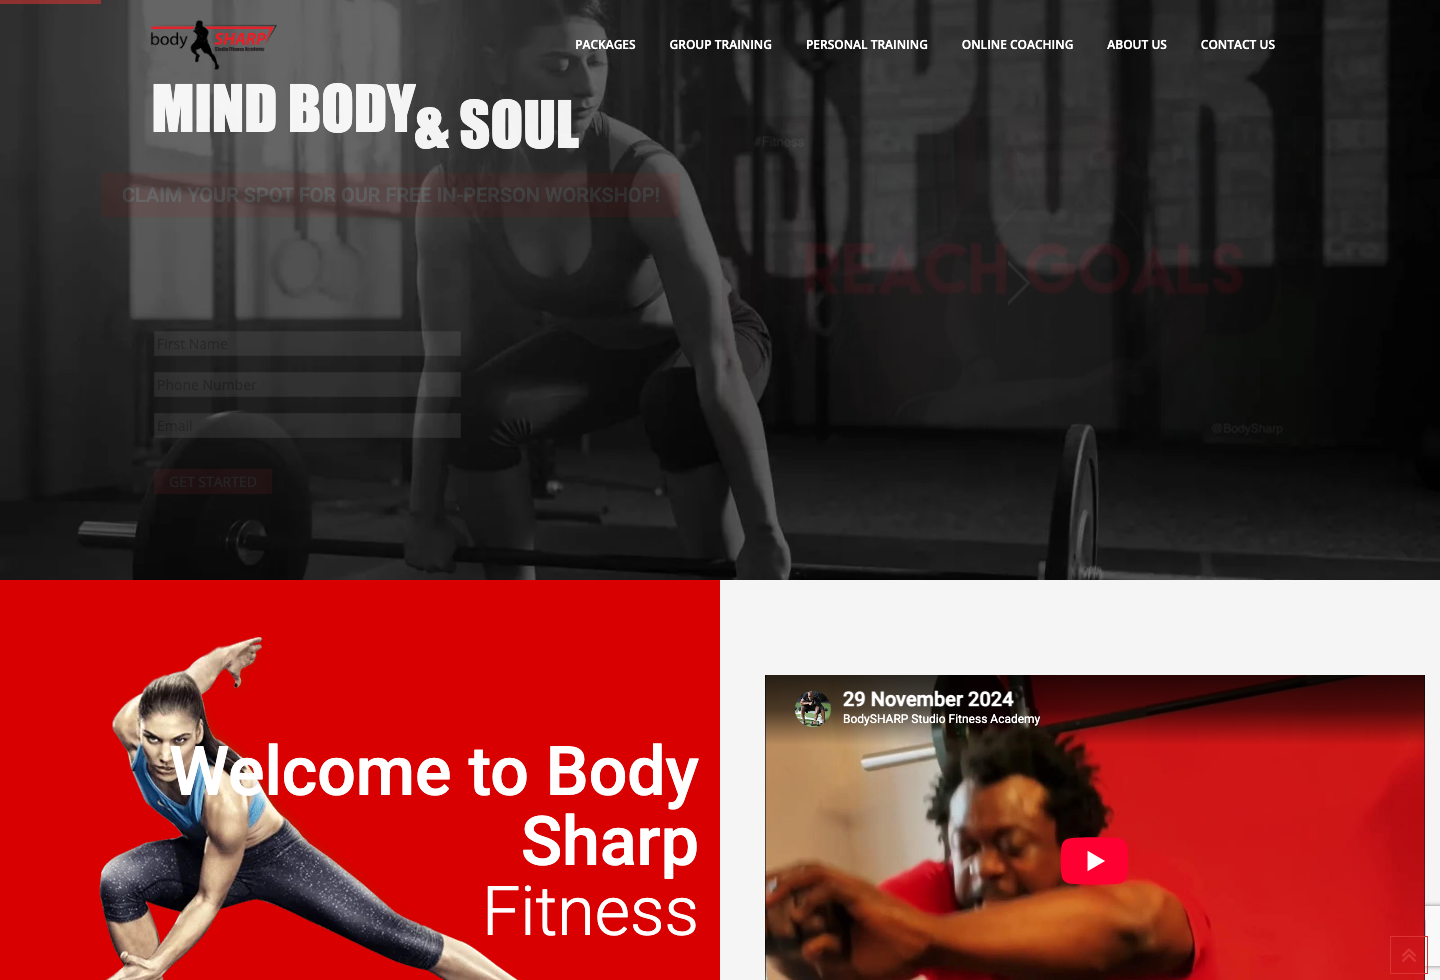
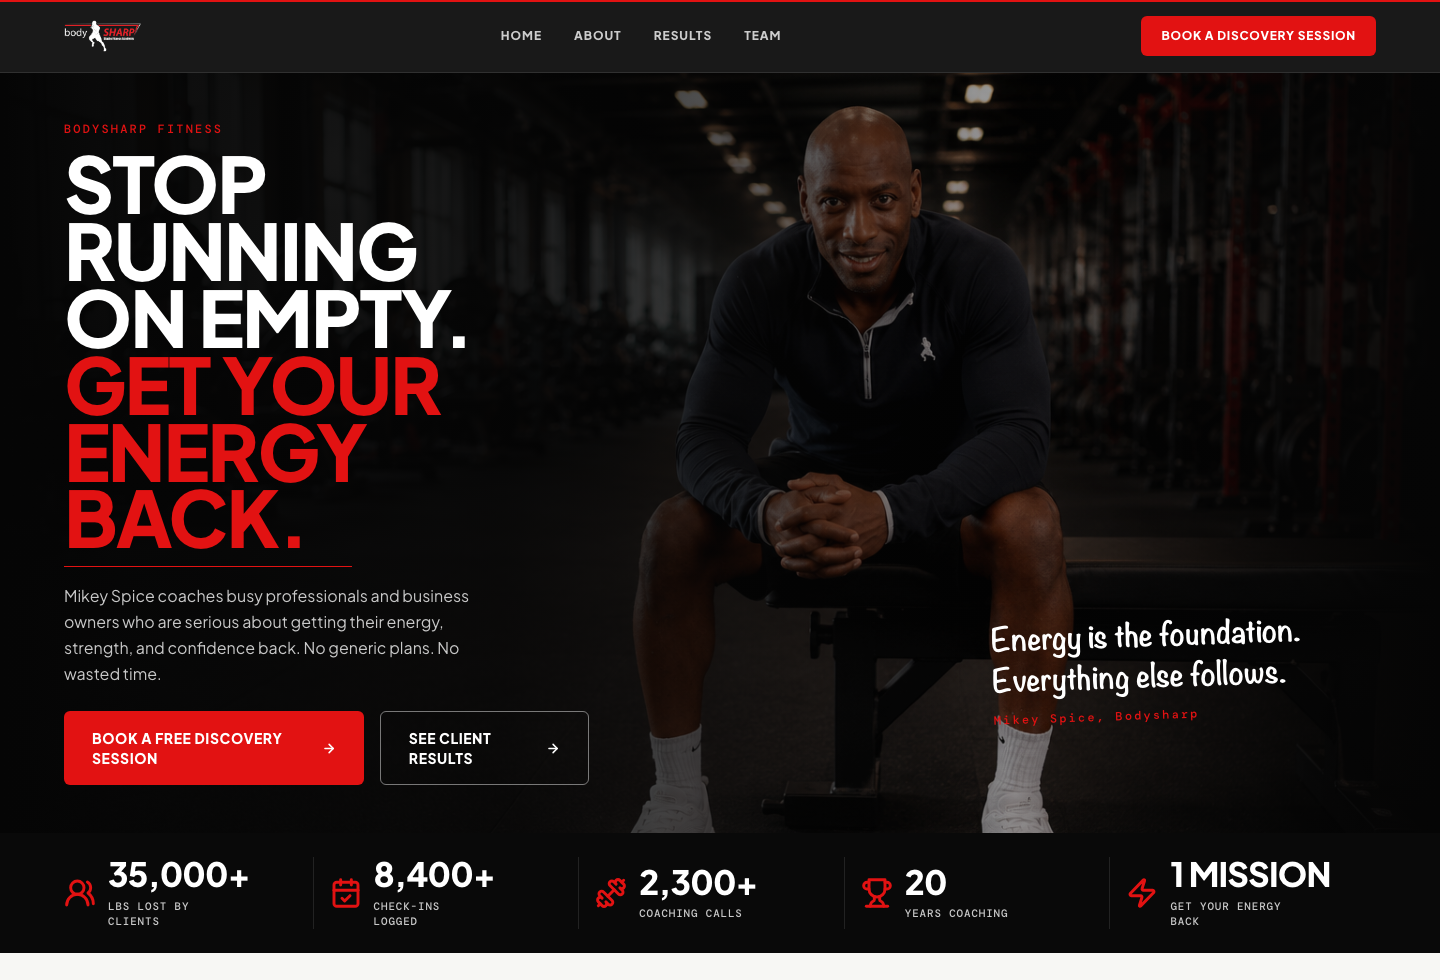
fix: restore examples card layout

diff --git a/app/sites/examples/page.tsx b/app/sites/examples/page.tsx
@@ -1,9 +1,9 @@
 import type { Metadata } from "next"
+import Image from "next/image"
 import { Activity, ArrowRight, Calendar, Check, Edit3, Eye, Rocket, Sparkles } from "lucide-react"
 import { MockupButton } from "../_components/SitesMockupModal"
 import { SitesFooter, SitesHeader, SitesPage, Underline } from "../_components/SitesPrimitives"
 import { ExamplesGallery } from "./ExamplesGallery"
-import { LiveSitesShowcase } from "./LiveSitesShowcase"
 
 export const metadata: Metadata = {
   title: "Examples | Sorted",
@@ -15,8 +15,51 @@ export const metadata: Metadata = {
 
 const metrics = [
   [Activity, "482", "Mockups created this month"],
-  [Sparkles, "5", "Live builds featured"],
-  [Calendar, "Today", "Factory updated"],
+  [Sparkles, "+7", "New mockups today"],
+  [Calendar, "12m ago", "Last mockup generated"],
+] as const
+
+const launchedSites = [
+  {
+    title: "Warwickshire Short Stays",
+    description: "Serviced accommodation website built to earn direct bookings and showcase a growing property portfolio.",
+    image: "/examples/live/warwickshire-short-stays-desktop.png",
+    href: "https://warwickshire-short-stays.netlify.app/",
+    cta: "Visit website",
+    external: true,
+  },
+  {
+    title: "Palace Barn & Cottage",
+    description: "Luxury countryside retreat website designed to feel premium before guests arrive.",
+    image: "/examples/palacebarns.jpg",
+    href: "https://palacebarns.com/",
+    cta: "Visit website",
+    external: true,
+  },
+  {
+    title: "BodySharp Fitness",
+    description: "Premium coaching website built around energy, trust and Discovery Session enquiries.",
+    image: "/examples/live/bodysharp-fitness-desktop.png",
+    href: "https://bodysharp-fitness.netlify.app/",
+    cta: "Visit website",
+    external: true,
+  },
+  {
+    title: "Savannah Villegas",
+    description: "Editorial portfolio website for social-first video production and brand storytelling.",
+    image: "/examples/live/savannah-villegas-desktop.png",
+    href: "https://savannahvillegas.com/",
+    cta: "Visit website",
+    external: true,
+  },
+  {
+    title: "Gracie Barra Halesowen",
+    description: "Brazilian Jiu-Jitsu academy website with clearer programmes and a stronger route to book.",
+    image: "/examples/graciebarra-halesowen.jpg",
+    href: "https://gbhalesowen.com/",
+    cta: "Visit website",
+    external: true,
+  },
 ] as const
 
 const processSteps = [
@@ -94,7 +137,22 @@ export default function ExamplesPage() {
           </a>
         </div>
 
-        <LiveSitesShowcase />
+        <div className="grid gap-4 sm:grid-cols-2 lg:grid-cols-4">
+          {launchedSites.map((site) => (
+            <article key={site.title} className="overflow-hidden rounded-[10px] border border-black/12 bg-white shadow-[0_16px_40px_rgba(0,0,0,0.045)]">
+              <a href={site.href} target={site.external ? "_blank" : undefined} rel={site.external ? "noopener noreferrer" : undefined} className="group relative block aspect-[16/10] overflow-hidden bg-[#080808]">
+                <Image src={site.image} alt={`${site.title} website`} fill sizes="(min-width: 1024px) 290px, (min-width: 640px) 50vw, 100vw" className="object-cover object-top transition-transform duration-500 group-hover:scale-[1.055]" />
+              </a>
+              <div className="p-5">
+                <h3 className="text-[16px] font-black leading-tight tracking-[-0.035em]">{site.title}</h3>
+                <p className="mt-2 min-h-[42px] text-[13px] font-semibold leading-[1.45] text-black/64">{site.description}</p>
+                <a href={site.href} target={site.external ? "_blank" : undefined} rel={site.external ? "noopener noreferrer" : undefined} className="mt-4 inline-flex min-h-10 items-center gap-2 text-[12px] font-black">
+                  {site.cta} <ArrowRight className="size-4" strokeWidth={2.5} />
+                </a>
+              </div>
+            </article>
+          ))}
+        </div>
       </section>
 
       <ExamplesGallery />
